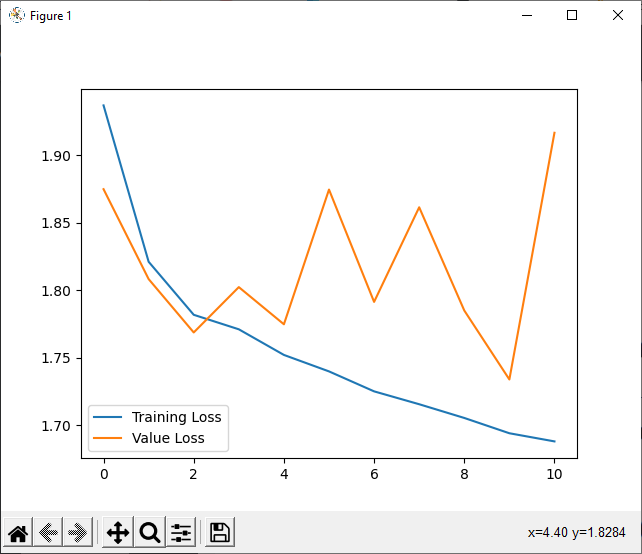
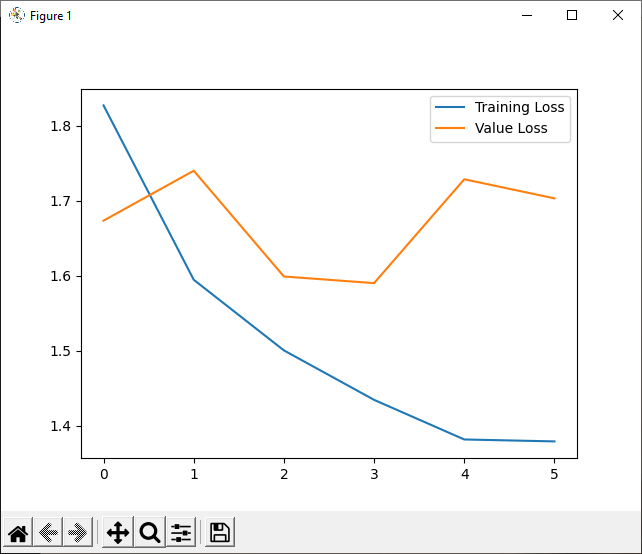
Used convolution

diff --git a/main.py b/main.py
@@ -55,16 +55,40 @@ dataTensor = torch.div(dataTensor,255)
 class NeuralNetwork(nn.Module):
   def __init__(self):
     super(NeuralNetwork, self).__init__()
-    self.flatten = nn.Flatten()
+    self.conv1 = nn.Conv2d(3, 1, 3)
+    self.Flatten = nn.Flatten()
+    self.pool = nn.MaxPool2d(2, 1)
+    self.conv2 = nn.Conv2d(1, 1, 3)
     self.linearReLUStack = nn.Sequential(
-      nn.Linear(3*32*32,512),
+      nn.Flatten(),
+      nn.Linear(28*28,512),
+      nn.ReLU(),
+      nn.Linear(512,512),
+      nn.ReLU(),
+      nn.Linear(512,512),
       nn.ReLU(),
       nn.Linear(512,512),
       nn.ReLU(),
       nn.Linear(512,10),
     )
+      # nn.Unflatten(32*32*3,(32,32,3)),
+      # nn.Conv1d(3, 1, 2),
+      # nn.Flatten(),
+      # nn.Linear(32*32,512),
+      # nn.ReLU(),
+      # nn.Linear(512,512),
+      # nn.ReLU(),
+      # nn.Linear(512,10),
   def forward(self,x):
-    logits = self.linearReLUStack(x)
+    logits = torch.reshape(x, (32,32,3))
+    logits = logits.permute(2,0,1)
+    logits = self.conv1(logits)
+    logits = self.conv2(logits)
+    # print(logits.size())
+    logits = self.linearReLUStack(logits)
+    logits = torch.squeeze(logits)
+    # print(logits.size())
+    # print(logits)
     return logits
 network = NeuralNetwork()
 loss_fn = torch.nn.CrossEntropyLoss()
@@ -74,7 +98,7 @@ optimizer = optim.SGD(network.parameters(), lr = 0.001, momentum = 0.9)
 # Train
 trainLoss = []
 valLoss = []
-for epoch in range(11):
+for epoch in range(6):
   print('Epoch ' + str(epoch))
   runningLoss = 0.0
   runningValLoss = 0.0
@@ -82,10 +106,13 @@ for epoch in range(11):
     # 40000
     optimizer.zero_grad()
     outputs = network(dataTensor[i])
+    # print(outputs.size())
     loss = criterion(outputs, labelTensor[i])
     loss.backward()
     optimizer.step()
     runningLoss += loss.item()
+    if(i%2000 == 1999):
+      print("Running loss: " + str(runningLoss/(i+1)))
   runningLoss = runningLoss/40000
   trainLoss.append(runningLoss)
   for i in range(10000):
